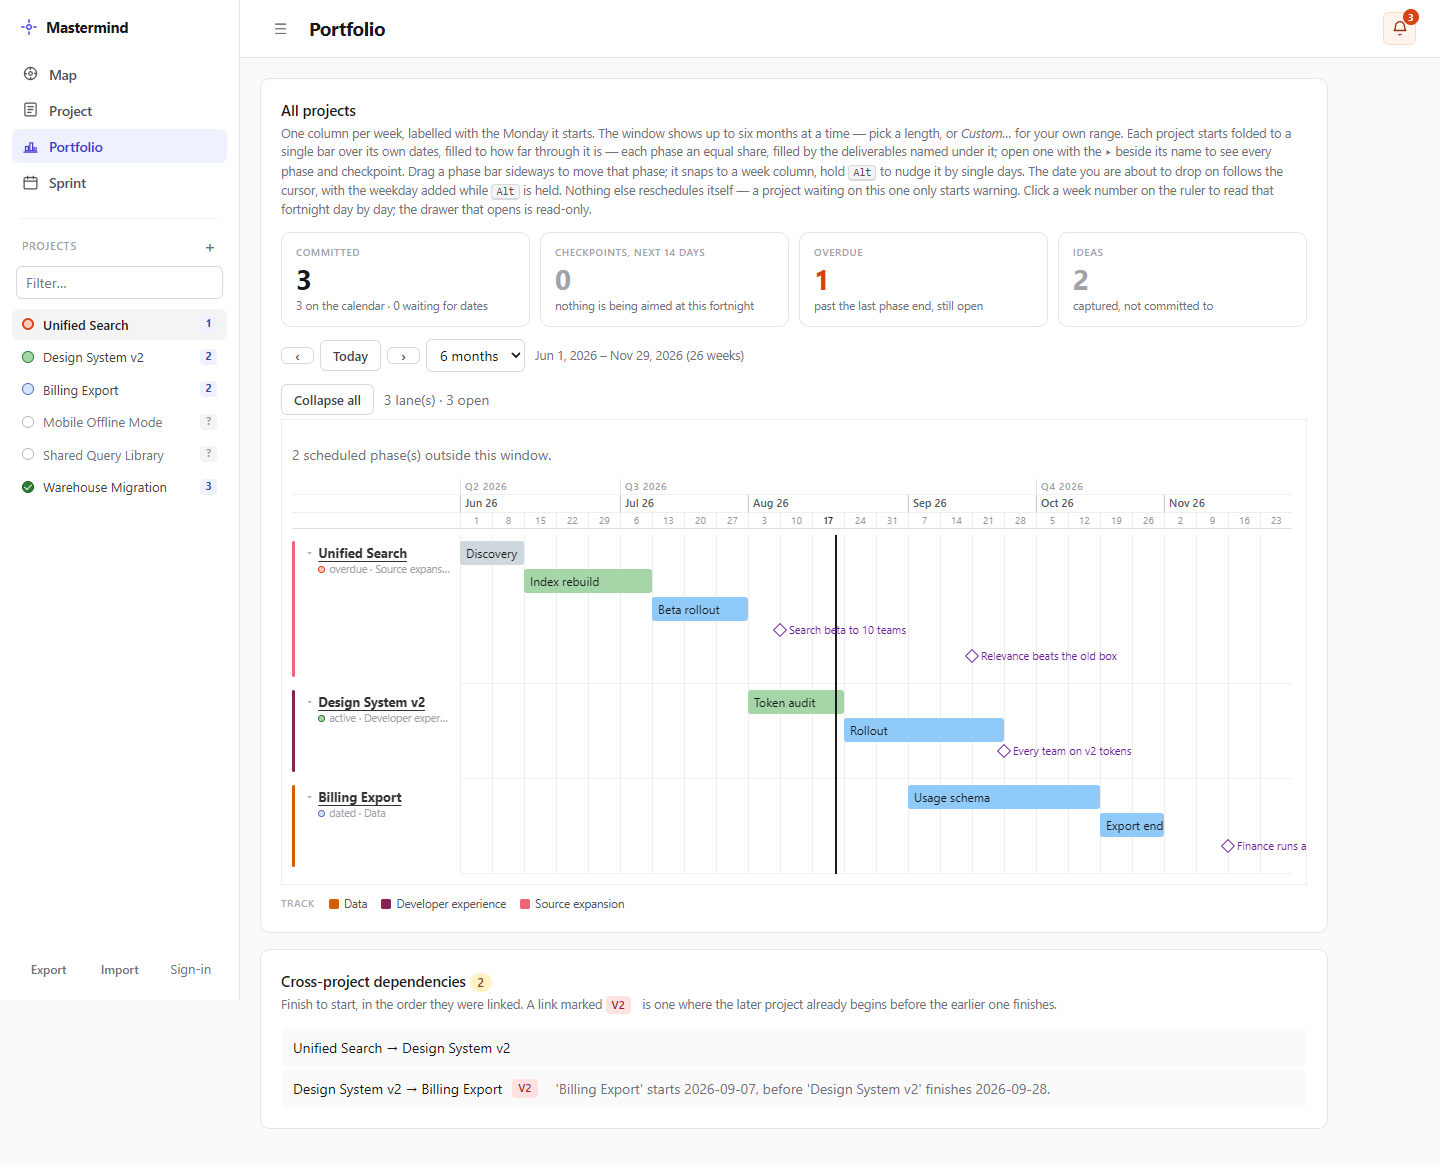
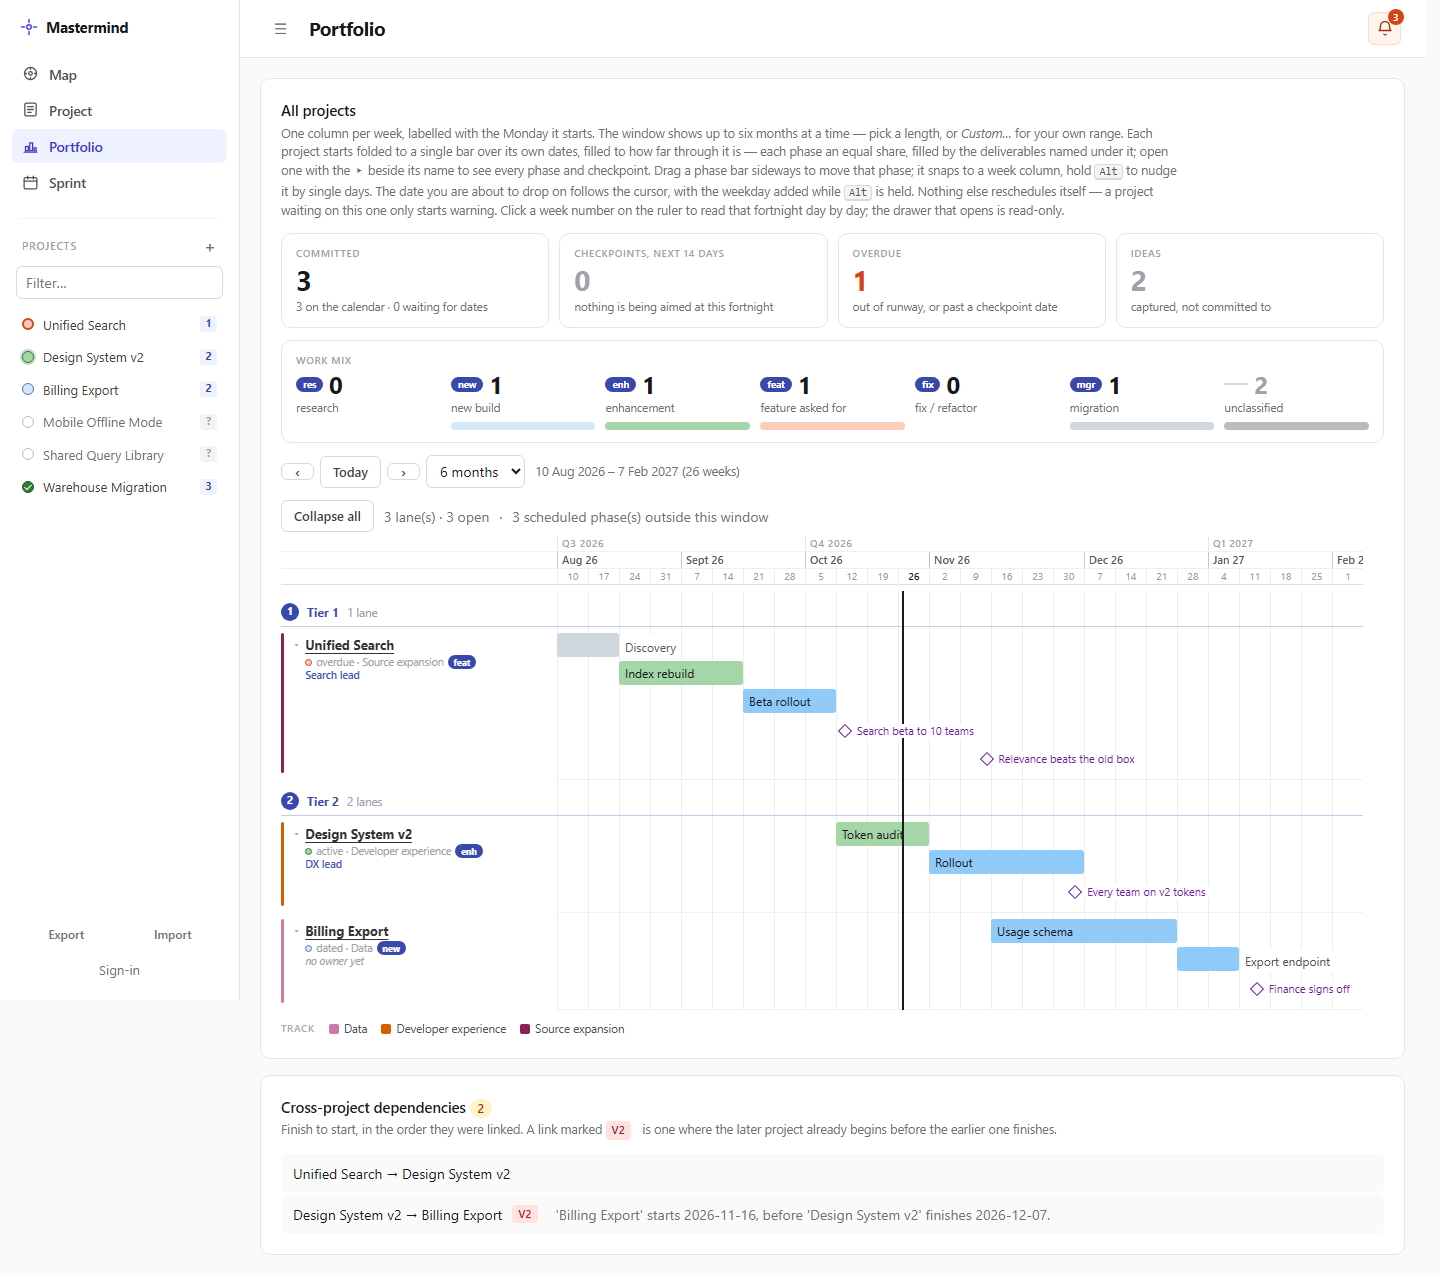
Reshoot the Portfolio docs image on the wider layout
Same seeded demo as before, dates moved ten weeks so today sits where it did.
Notes in views.md that a short bar prints its text beside it.

diff --git a/docs/views.md b/docs/views.md
@@ -54,7 +54,7 @@ Every project on one shared time axis.
 - **Swimlanes** — one per committed project. A folded lane is a single bar over
   the project's own dates, filled to how far through it is; **Expand all** (or
   the coloured rail and ▸ beside a name) opens it into one row per phase and per
-  dated checkpoint.
+  dated checkpoint. A bar too short for its own text prints it beside the bar.
   Lanes are grouped under a header per tier — Tier 1 first, then 2 and 3, with
   untiered projects last. A tier with no lanes on screen has no header.
   Bar colour is the project's track, listed in the key below the chart. The
